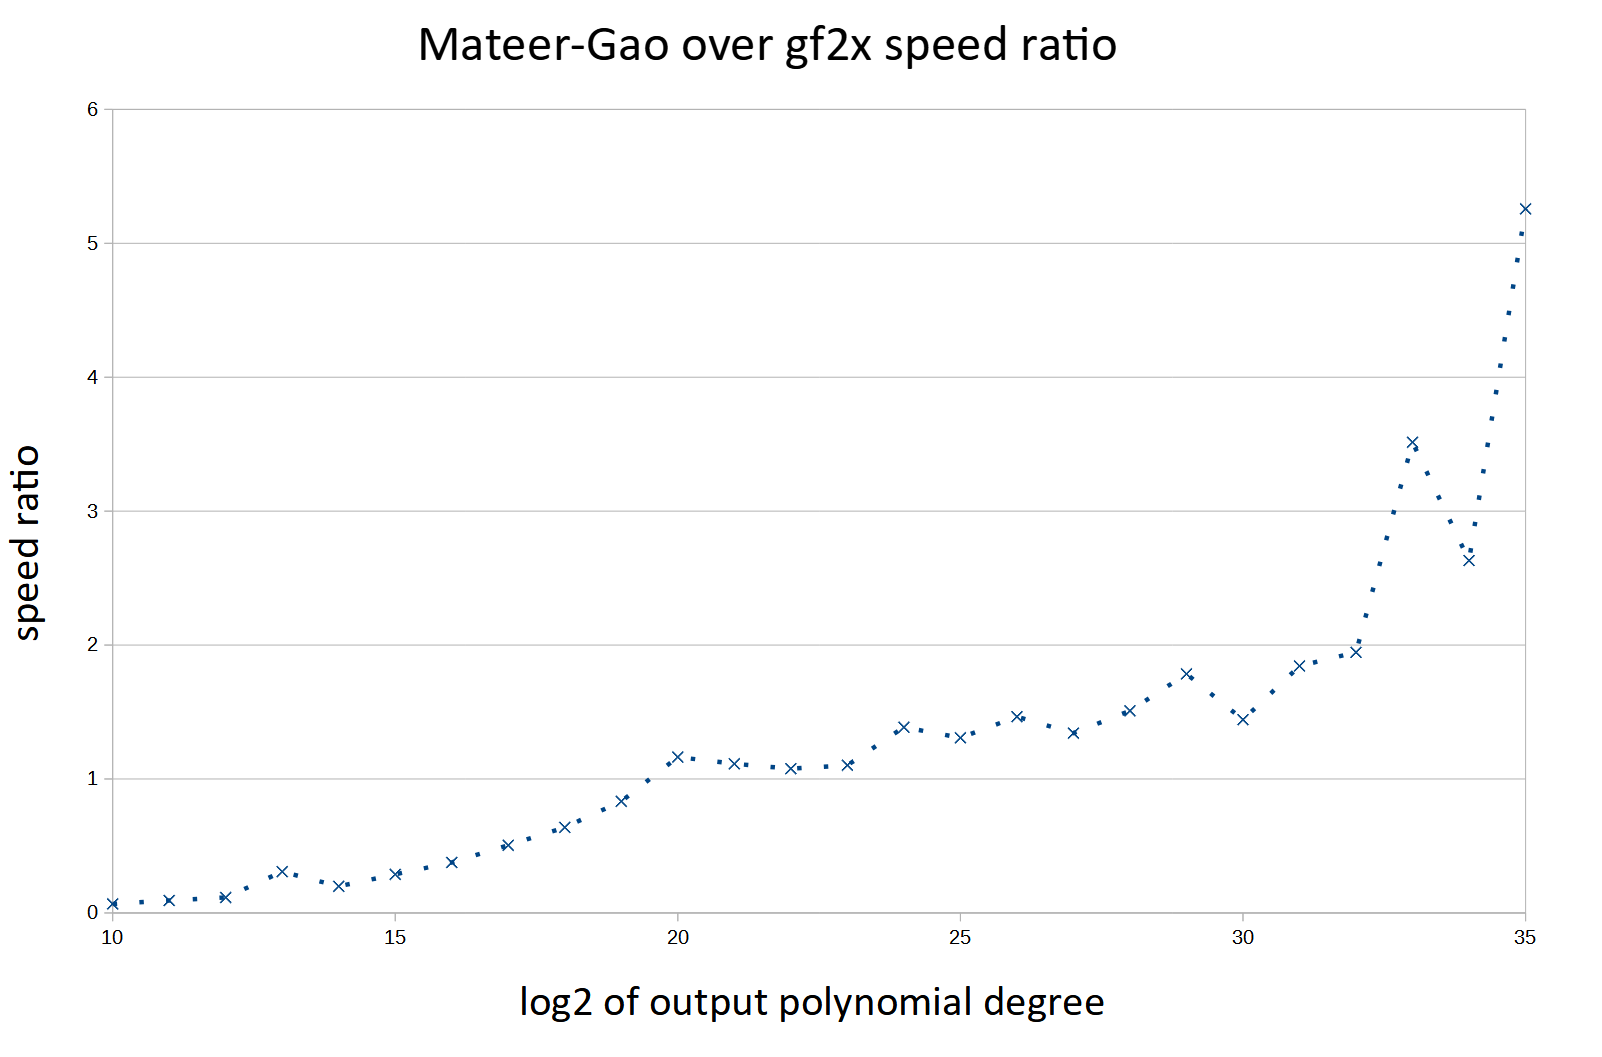
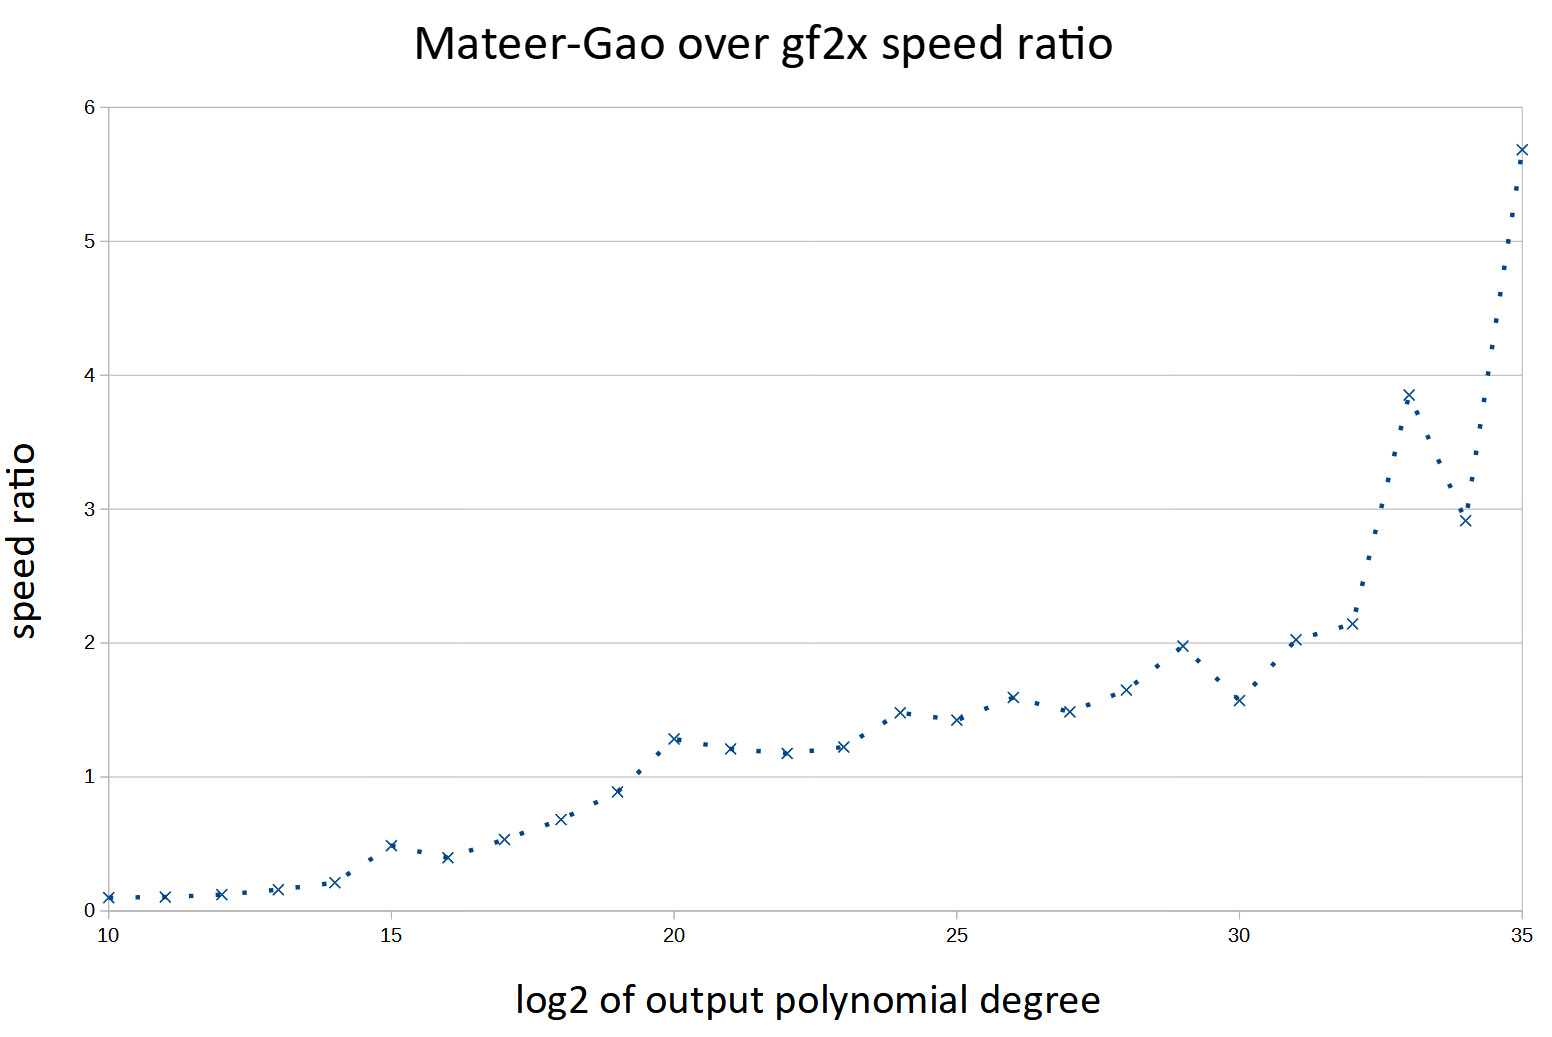
Computation times and graphs update

diff --git a/README.md b/README.md
@@ -24,34 +24,34 @@ Experiments on an AMD 3900X PC with 64GB of RAM are summarized below. Results ar
 
 |Output log2 size|gf2x product time (sec.)|Mateer-Gao product time (sec.)|
 |:----:|:----:|:----:|
-|10| 1.09431e-07| 1.38589e-06|
-|11| 2.62482e-07| 2.52093e-06|
-|12| 7.15466e-07| 5.61545e-06|
-|13| 2.03284e-06| 7.47628e-06|
-|14| 2.99103e-06| 1.4035e-05|
-|15| 9.9116e-06| 3.16259e-05|
-|16| 2.81112e-05| 6.83873e-05|
-|17| 8.04921e-05| 0.00014863|
-|18| 0.000221933| 0.000323124|
-|19| 0.000619341| 0.0006945|
-|20| 0.00191297| 0.00149074|
-|21| 0.00386728| 0.00319287|
-|22| 0.00798317| 0.00689116|
-|23| 0.0175718| 0.0147847|
-|24| 0.044663| 0.0310474|
-|25| 0.0901284| 0.0653282|
-|26| 0.214669| 0.138846|
-|27| 0.431616| 0.299029|
-|28| 1.03791| 0.651955|
-|29| 2.62693| 1.39348|
-|30| 4.54754| 2.96513|
-|31| 12.119| 6.23943|
-|32| 27.0756| 13.1931|
-|33| 101.915| 27.8231|
-|34| 161.692| 59.1067|
-|35| 671.035| 124.084|
-|36| not enough memory| 263.476|
-|37| not enough memory| 558.934|
+|10| 1.533e-07| 1.54592e-06|
+|11| 2.94e-07| 2.84344e-06|
+|12| 7.6872e-07| 6.32339e-06|
+|13| 2.15473e-06| 1.3588e-05|
+|14| 6.30239e-06| 2.98442e-05|
+|15| 1.98352e-05| 4.07306e-05|
+|16| 2.80883e-05| 7.07753e-05|
+|17| 8.11709e-05| 0.000152324|
+|18| 0.000224136| 0.000328689|
+|19| 0.000624297| 0.000702538|
+|20| 0.00192079| 0.001496|
+|21| 0.00385513| 0.00318693|
+|22| 0.0080079| 0.00681072|
+|23| 0.0177371| 0.0144946|
+|24| 0.044928| 0.0303629|
+|25| 0.0908105| 0.0637364|
+|26| 0.216681| 0.135941|
+|27| 0.434778| 0.292499|
+|28| 1.03921| 0.630294|
+|29| 2.66044| 1.34558|
+|30| 4.48929| 2.85855|
+|31| 12.127| 5.99039|
+|32| 27.1416| 12.6645|
+|33| 103.736| 26.927|
+|34| 166.724| 57.2199|
+|35| 682.815| 120.14|
+|36| not enough memory| 251.969|
+|37| not enough memory| 532.96|
 
 ![Execution times](https://github.com/kunzjacq/Additive_DFTs/blob/master/times.png?raw=true)
 
